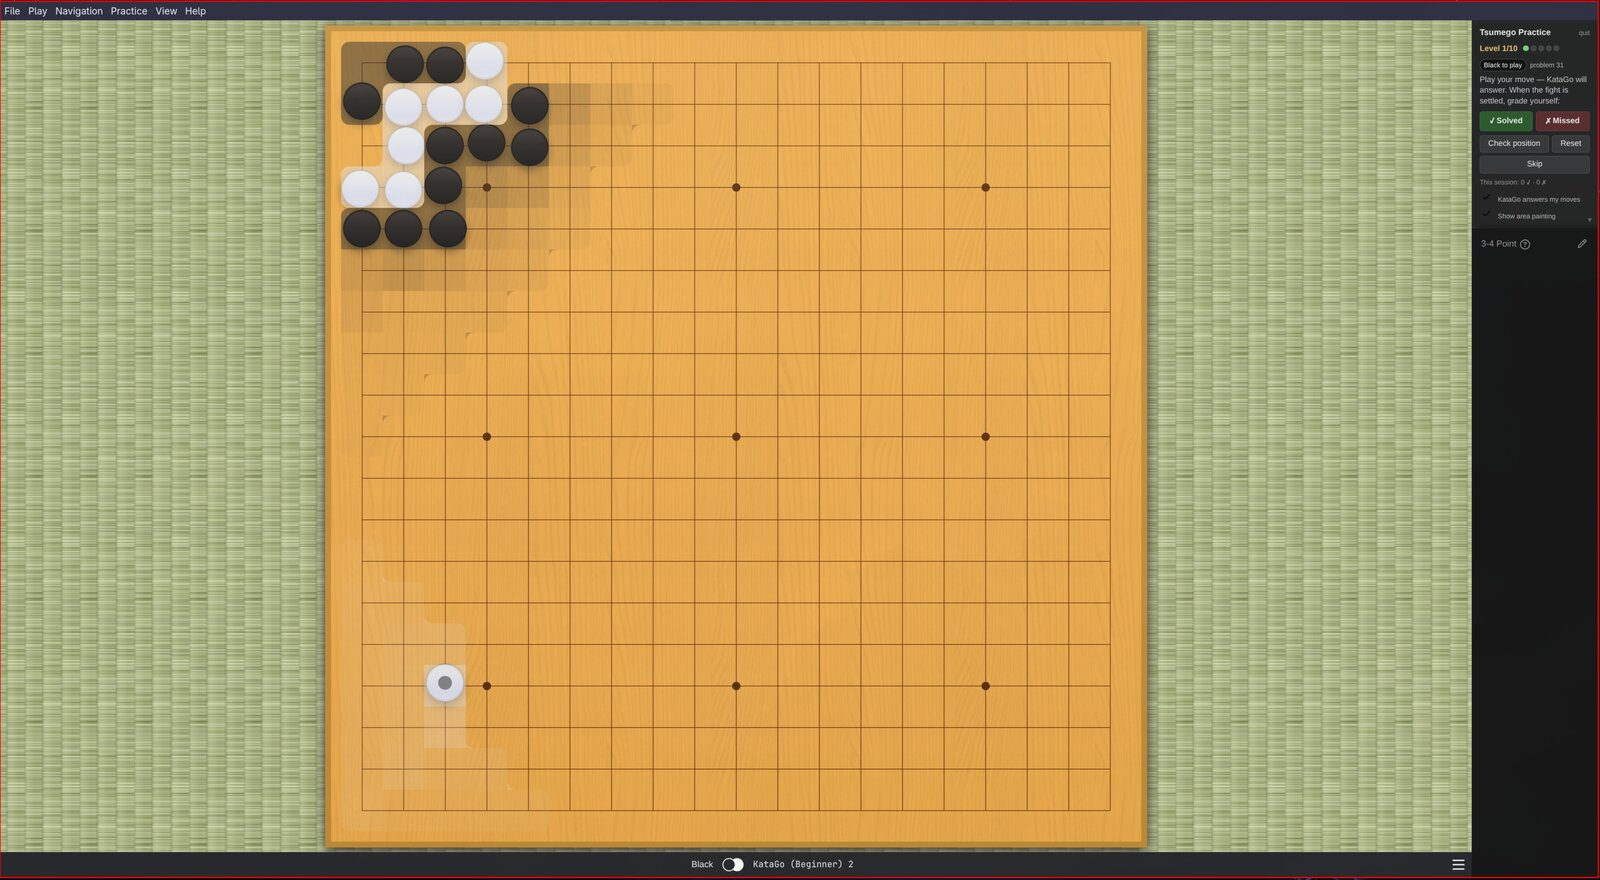
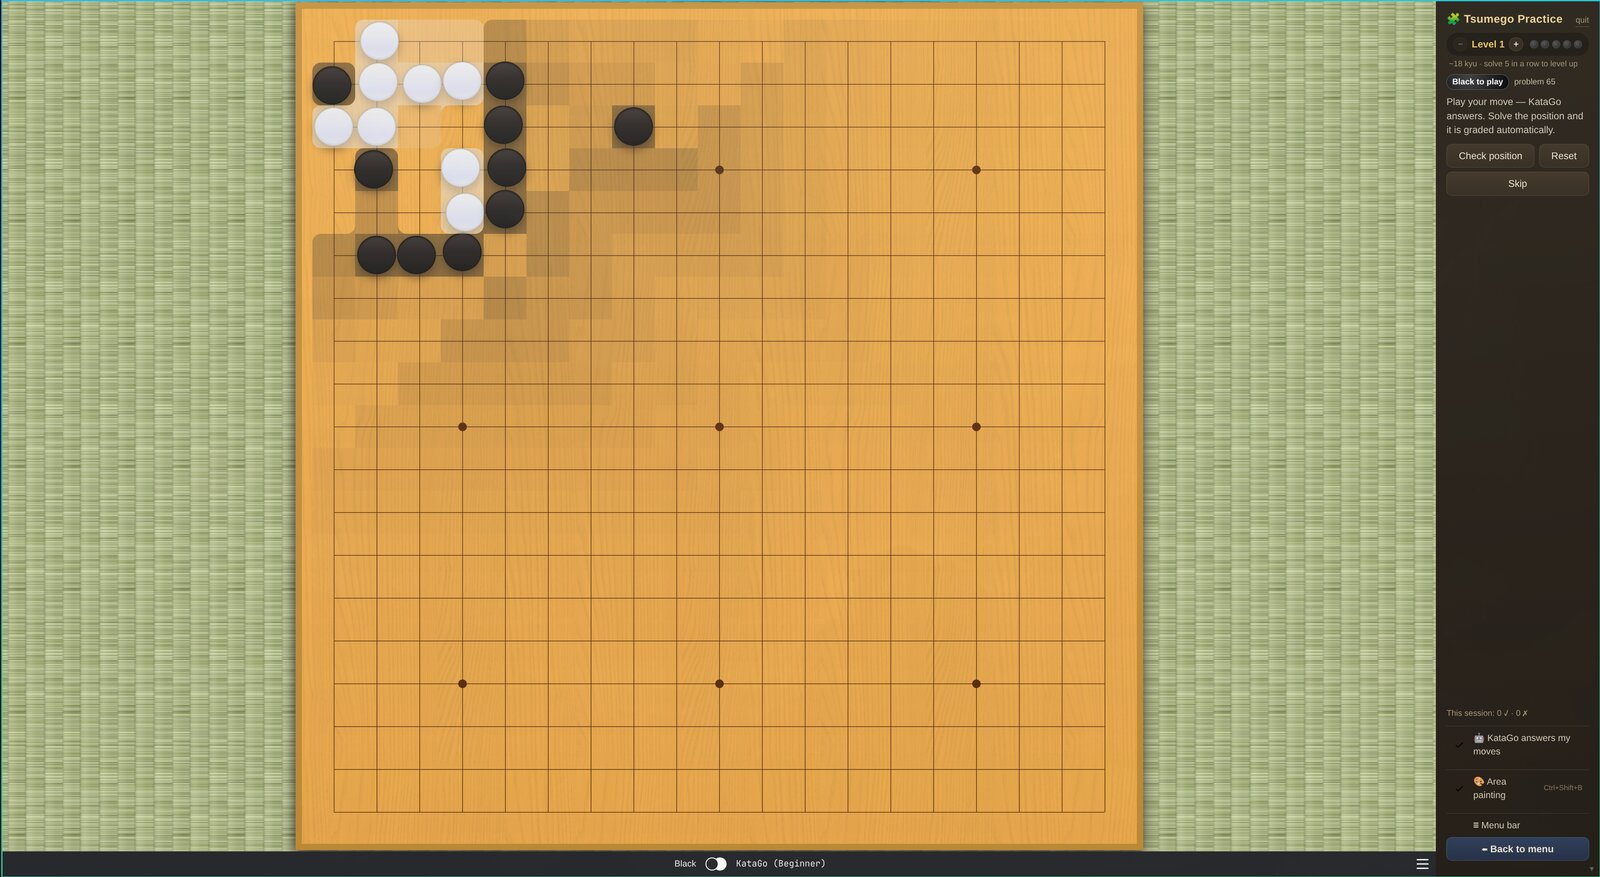
docs: fresh README screenshots — tsumego overlay and Hikaru study mode

Changed region(s): [[0.0, 0.0, 1.0, 1.0], [0.9688, 0.8928, 1.0, 0.9236]]

diff --git a/README.md b/README.md
@@ -3,7 +3,9 @@
 **Learn and enjoy Go (Baduk/Weiqi) — a friendly, offline trainer for
 beginners.**
 
-![Tsumego practice in frank_go](docs/images/tsumego-practice.jpg)
+![Tsumego practice with the area painting overlay](docs/images/tsumego-practice.jpg)
+
+![Replaying a Hikaru no Go game in study mode](docs/images/hikaru-study.jpg)
 
 Go is a beautiful game, but the first steps are hard: you can't tell who is
 winning, you don't know what to study, and strong software is built for strong